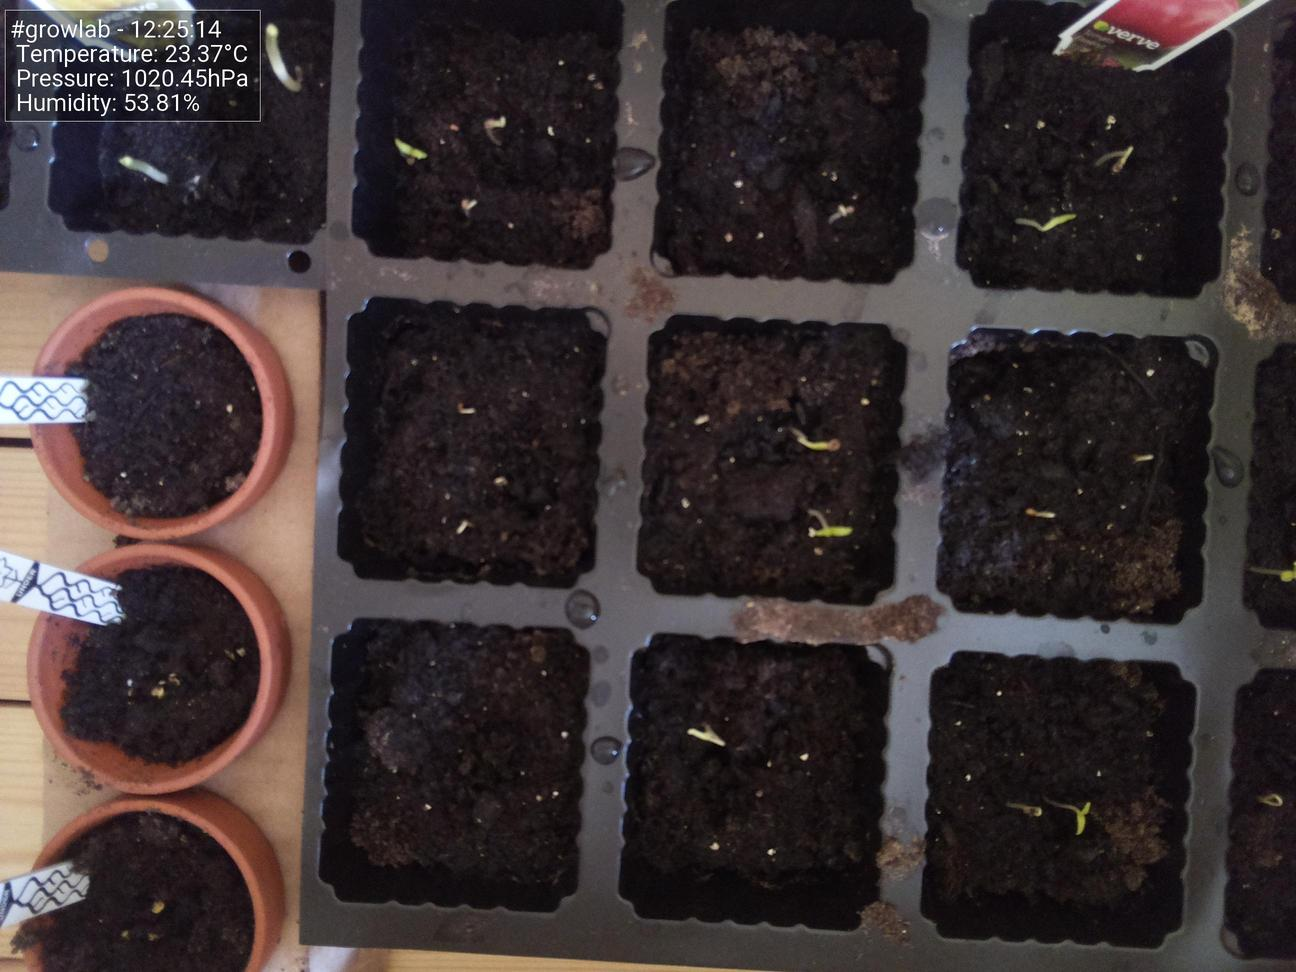
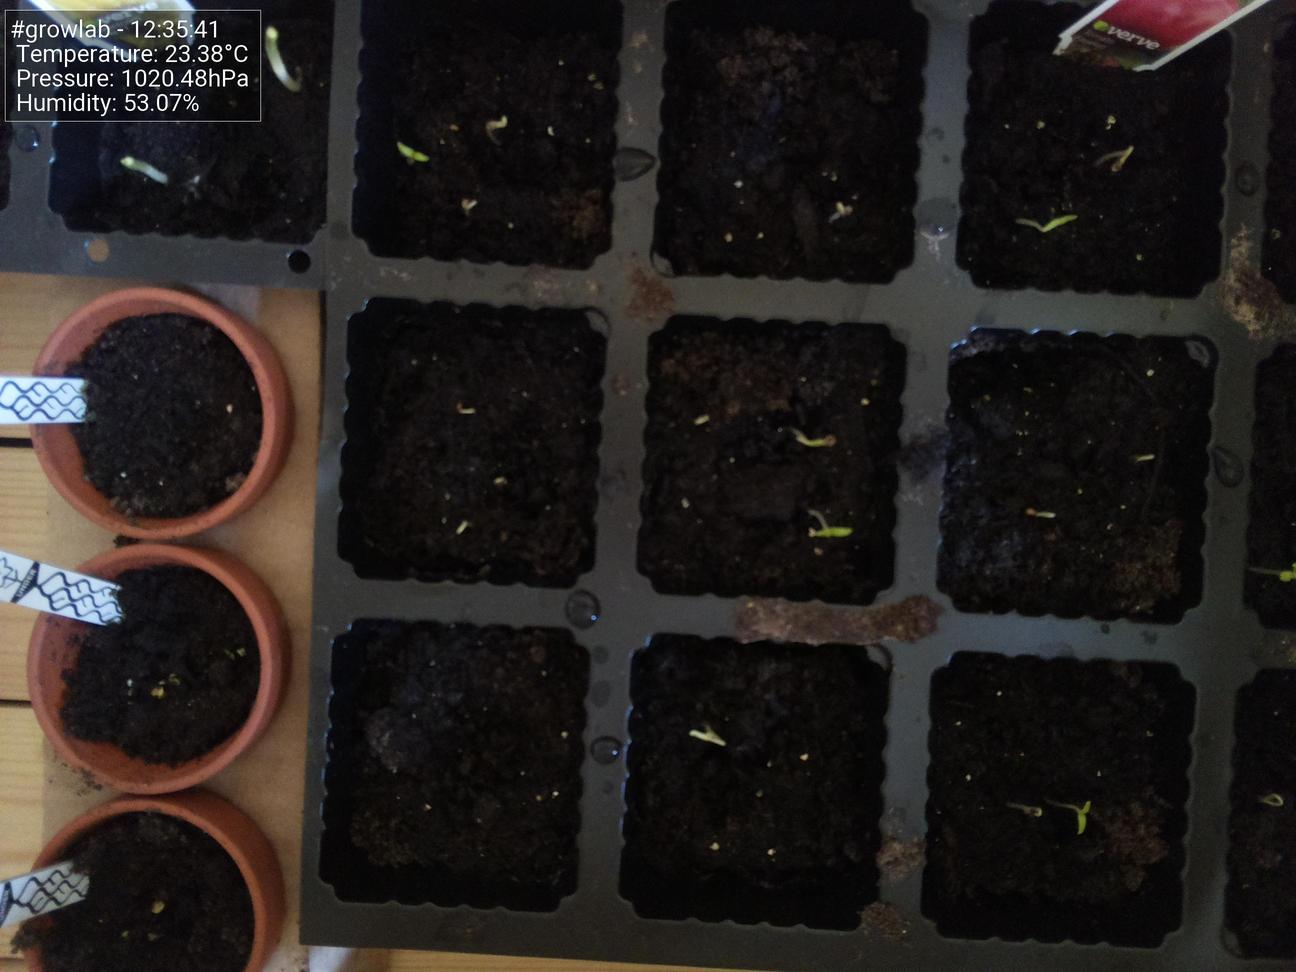
Update images at Sat 29 May 12:35:56 BST 2021

diff --git a/index.html b/index.html
@@ -47,19 +47,19 @@
                         <tbody>
                             <tr>
                                 <td>Time</td>
-                                <td>12:25:14</td>
+                                <td>12:35:41</td>
                             </tr>
                             <tr>
                                 <td>Temperature</td>
-                                <td>23.37°C</td>
+                                <td>23.38°C</td>
                             </tr>
                             <tr>
                                 <td>Humidity</td>
-                                <td>53.81%</td>
+                                <td>53.07%</td>
                             </tr>
                             <tr>
                                 <td>Pressure</td>
-                                <td>1020.45hPa</td>
+                                <td>1020.48hPa</td>
                             </tr>
                         </tbody>
                     </table>
@@ -67,7 +67,7 @@
 
                 <h5>Latest image</h5>
                 <div style="width: 85%;">
-                            <img class="figure-img img-fluid rounded" src="./preview.jpg?uid=1622287529.5770295">
+                            <img class="figure-img img-fluid rounded" src="./preview.jpg?uid=1622288156.0981712">
                 </div>
             </div>
         </div>
